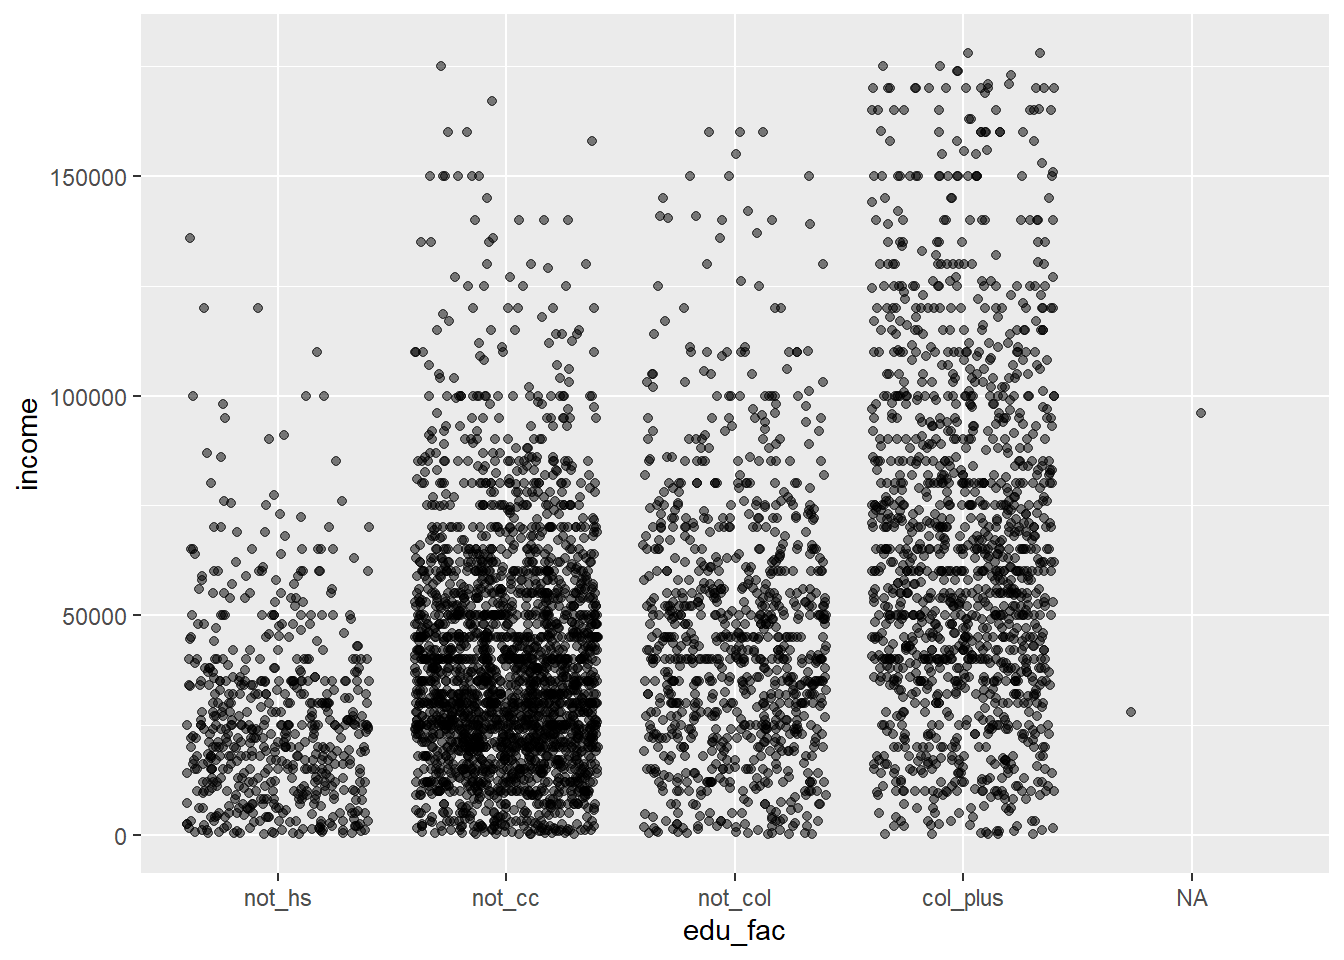
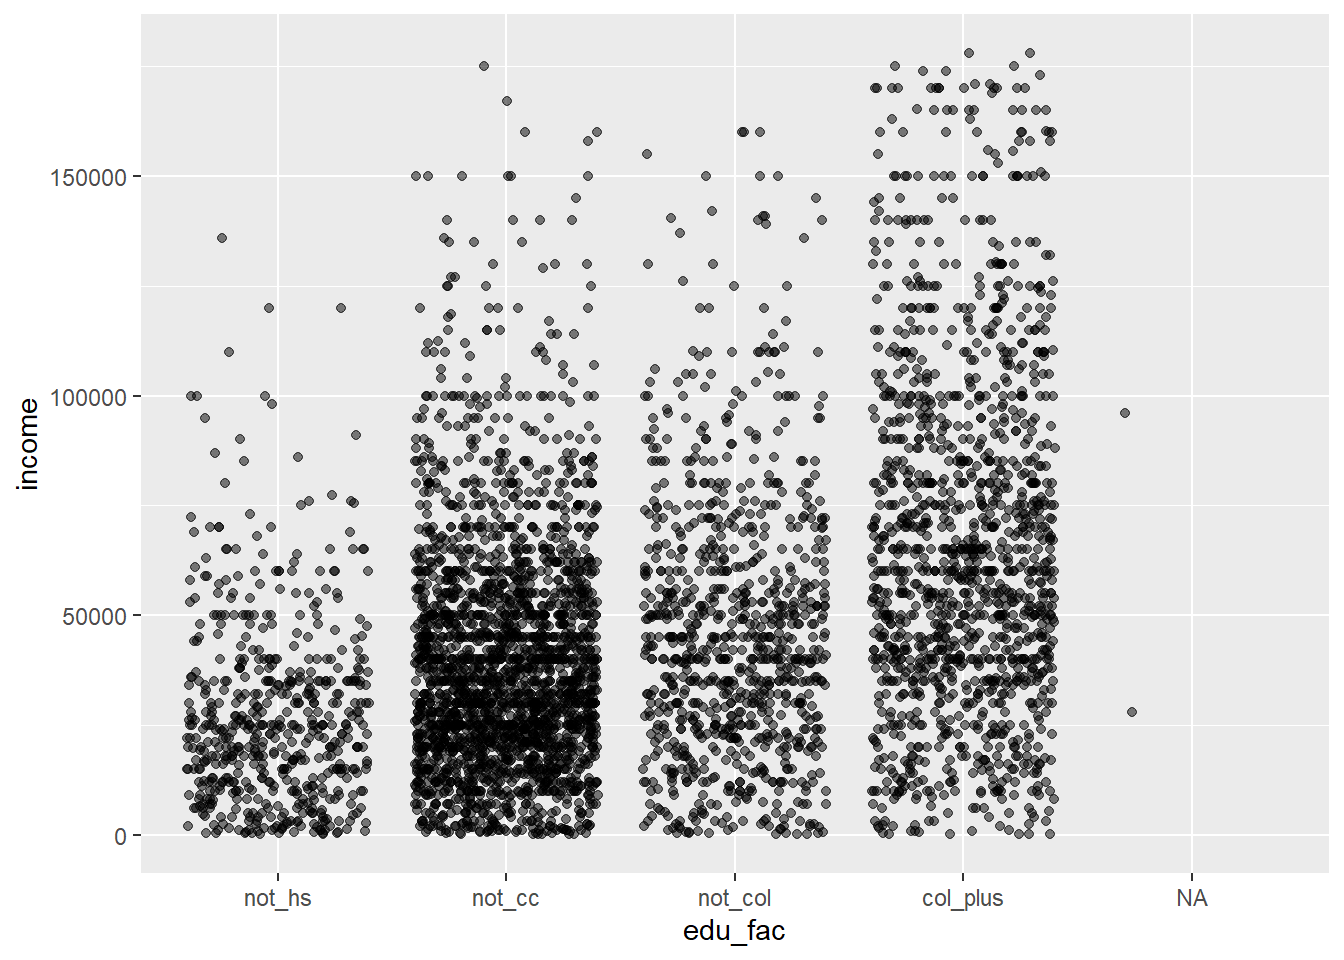
Tolkning

diff --git a/assignment_2.html b/assignment_2.html
@@ -166,9 +166,6 @@ div.csl-indent {
 <div class="sourceCode cell-code" id="cb2"><pre class="sourceCode r code-with-copy"><code class="sourceCode r"><span id="cb2-1"><a href="#cb2-1" aria-hidden="true" tabindex="-1"></a>na <span class="ot">&lt;-</span> <span class="fu">is.na</span>(hoyde)</span></code><button title="Copy to Clipboard" class="code-copy-button"><i class="bi"></i></button></pre></div>
 </div>
 <div class="cell">
-<div class="cell-output cell-output-stderr">
-<pre><code>`geom_smooth()` using formula = 'y ~ x'</code></pre>
-</div>
 <div class="cell-output-display">
 <p><img src="assignment_2_files/figure-html/unnamed-chunk-10-1.png" class="img-fluid" width="672"></p>
 </div>
@@ -763,29 +760,32 @@ div.csl-indent {
 </div>
 </div>
 <div class="cell">
-<div class="sourceCode cell-code" id="cb4"><pre class="sourceCode r code-with-copy"><code class="sourceCode r"><span id="cb4-1"><a href="#cb4-1" aria-hidden="true" tabindex="-1"></a>hoyde <span class="ot">&lt;-</span> hoyde <span class="sc">|&gt;</span> </span>
-<span id="cb4-2"><a href="#cb4-2" aria-hidden="true" tabindex="-1"></a>  <span class="fu">mutate</span>(</span>
-<span id="cb4-3"><a href="#cb4-3" aria-hidden="true" tabindex="-1"></a>    <span class="at">income_class =</span> <span class="fu">case_when</span>(</span>
-<span id="cb4-4"><a href="#cb4-4" aria-hidden="true" tabindex="-1"></a>    income <span class="sc">==</span> <span class="dv">0</span> <span class="sc">~</span> <span class="st">"zeroinc"</span>,</span>
-<span id="cb4-5"><a href="#cb4-5" aria-hidden="true" tabindex="-1"></a>    income <span class="sc">&gt;</span> <span class="dv">0</span> <span class="sc">&amp;</span> income <span class="sc">&lt;</span> <span class="dv">343830</span> <span class="sc">~</span> <span class="st">"norminc"</span>,</span>
-<span id="cb4-6"><a href="#cb4-6" aria-hidden="true" tabindex="-1"></a>    income <span class="sc">&gt;=</span> <span class="dv">343830</span> <span class="sc">~</span> <span class="st">"highinc"</span></span>
-<span id="cb4-7"><a href="#cb4-7" aria-hidden="true" tabindex="-1"></a>    ))</span></code><button title="Copy to Clipboard" class="code-copy-button"><i class="bi"></i></button></pre></div>
+<div class="sourceCode cell-code" id="cb3"><pre class="sourceCode r code-with-copy"><code class="sourceCode r"><span id="cb3-1"><a href="#cb3-1" aria-hidden="true" tabindex="-1"></a>hoyde <span class="ot">&lt;-</span> hoyde <span class="sc">|&gt;</span> </span>
+<span id="cb3-2"><a href="#cb3-2" aria-hidden="true" tabindex="-1"></a>  <span class="fu">mutate</span>(</span>
+<span id="cb3-3"><a href="#cb3-3" aria-hidden="true" tabindex="-1"></a>    <span class="at">income_class =</span> <span class="fu">case_when</span>(</span>
+<span id="cb3-4"><a href="#cb3-4" aria-hidden="true" tabindex="-1"></a>    income <span class="sc">==</span> <span class="dv">0</span> <span class="sc">~</span> <span class="st">"zeroinc"</span>,</span>
+<span id="cb3-5"><a href="#cb3-5" aria-hidden="true" tabindex="-1"></a>    income <span class="sc">&gt;</span> <span class="dv">0</span> <span class="sc">&amp;</span> income <span class="sc">&lt;</span> <span class="dv">343830</span> <span class="sc">~</span> <span class="st">"norminc"</span>,</span>
+<span id="cb3-6"><a href="#cb3-6" aria-hidden="true" tabindex="-1"></a>    income <span class="sc">&gt;=</span> <span class="dv">343830</span> <span class="sc">~</span> <span class="st">"highinc"</span></span>
+<span id="cb3-7"><a href="#cb3-7" aria-hidden="true" tabindex="-1"></a>    ))</span></code><button title="Copy to Clipboard" class="code-copy-button"><i class="bi"></i></button></pre></div>
 </div>
 <div class="cell">
-<div class="sourceCode cell-code" id="cb5"><pre class="sourceCode r code-with-copy"><code class="sourceCode r"><span id="cb5-1"><a href="#cb5-1" aria-hidden="true" tabindex="-1"></a>hoyde <span class="sc">|&gt;</span> </span>
-<span id="cb5-2"><a href="#cb5-2" aria-hidden="true" tabindex="-1"></a>  <span class="fu">ggplot</span>(<span class="at">mapping =</span> <span class="fu">aes</span>(</span>
-<span id="cb5-3"><a href="#cb5-3" aria-hidden="true" tabindex="-1"></a>    <span class="at">x =</span> edu_fac,</span>
-<span id="cb5-4"><a href="#cb5-4" aria-hidden="true" tabindex="-1"></a>    <span class="at">y =</span> income,</span>
-<span id="cb5-5"><a href="#cb5-5" aria-hidden="true" tabindex="-1"></a>    <span class="at">colour =</span> income_class</span>
-<span id="cb5-6"><a href="#cb5-6" aria-hidden="true" tabindex="-1"></a>  )) <span class="sc">+</span></span>
-<span id="cb5-7"><a href="#cb5-7" aria-hidden="true" tabindex="-1"></a>  <span class="fu">geom_jitter</span>(<span class="at">alpha =</span> <span class="fl">0.2</span>)</span></code><button title="Copy to Clipboard" class="code-copy-button"><i class="bi"></i></button></pre></div>
+<div class="sourceCode cell-code" id="cb4"><pre class="sourceCode r code-with-copy"><code class="sourceCode r"><span id="cb4-1"><a href="#cb4-1" aria-hidden="true" tabindex="-1"></a>hoyde <span class="sc">|&gt;</span> </span>
+<span id="cb4-2"><a href="#cb4-2" aria-hidden="true" tabindex="-1"></a>  <span class="fu">ggplot</span>(<span class="at">mapping =</span> <span class="fu">aes</span>(</span>
+<span id="cb4-3"><a href="#cb4-3" aria-hidden="true" tabindex="-1"></a>    <span class="at">x =</span> edu_fac,</span>
+<span id="cb4-4"><a href="#cb4-4" aria-hidden="true" tabindex="-1"></a>    <span class="at">y =</span> income,</span>
+<span id="cb4-5"><a href="#cb4-5" aria-hidden="true" tabindex="-1"></a>    <span class="at">colour =</span> income_class</span>
+<span id="cb4-6"><a href="#cb4-6" aria-hidden="true" tabindex="-1"></a>  )) <span class="sc">+</span></span>
+<span id="cb4-7"><a href="#cb4-7" aria-hidden="true" tabindex="-1"></a>  <span class="fu">geom_jitter</span>(<span class="at">alpha =</span> <span class="fl">0.2</span>)</span></code><button title="Copy to Clipboard" class="code-copy-button"><i class="bi"></i></button></pre></div>
 <div class="cell-output-display">
 <p><img src="assignment_2_files/figure-html/unnamed-chunk-20-1.png" class="img-fluid" width="672"></p>
 </div>
 </div>
+<p>I fordelingen “hoydeHighInc” ser man et markant skille i fordelingen i menn og kvinner. Menn utgjør 92% av fordelingen “hoydeHighInc”, mens kvinner utgjør 8% av fordelingen.</p>
+<p>I fordelingen “hoydeZeroInc” ser man at fordelingen mellom kvinner og menn er 43% menn og 57% Kvinner som utgjør fordelingen.</p>
+<p>Plottet under er ment som en ildustrasjon av hvordan “hoydeHightInc”(rød), “hoydeZeroInc”(blå) skiller seg fra “hoydeNormInc” med utgangspunkt i høyde &amp; utdanning. Dette plottet er ikke 100% representativt for fordelingene ettersom man ikke får plottet alle observarsjonene, men fungerer godt som en indikator for å vise skille i utdanning &amp; høyde. Man ser at dersom man er i fordelingen “hoydeZeroInc” skorer majoriteten av observasjonene lavest på utdanning &amp; høyde, mens man i “hoydeNormInc” skorer en større del av observasjonene høyere på utdanning &amp; høyde enn “hoydeZeroInc”. Når det kommer til “hoydeHighInc” skorer denne klarest høyst på utdanning &amp; høyde. Vi vil seinere i oppgaven se nærmere på dette i faktiske tall.</p>
 <div class="cell">
-<div class="sourceCode cell-code" id="cb6"><pre class="sourceCode r code-with-copy"><code class="sourceCode r"><span id="cb6-1"><a href="#cb6-1" aria-hidden="true" tabindex="-1"></a>hoyde <span class="sc">|&gt;</span> <span class="fu">ggplot</span>() <span class="sc">+</span></span>
-<span id="cb6-2"><a href="#cb6-2" aria-hidden="true" tabindex="-1"></a>  <span class="fu">geom_point</span>(<span class="at">data =</span> hoyde, <span class="at">mapping =</span> <span class="fu">aes</span>(<span class="at">x =</span> education, <span class="at">y =</span> height, <span class="at">colour =</span> <span class="fu">factor</span>(income_class), <span class="at">shape =</span> sex))</span></code><button title="Copy to Clipboard" class="code-copy-button"><i class="bi"></i></button></pre></div>
+<div class="sourceCode cell-code" id="cb5"><pre class="sourceCode r code-with-copy"><code class="sourceCode r"><span id="cb5-1"><a href="#cb5-1" aria-hidden="true" tabindex="-1"></a>hoyde <span class="sc">|&gt;</span> <span class="fu">ggplot</span>() <span class="sc">+</span></span>
+<span id="cb5-2"><a href="#cb5-2" aria-hidden="true" tabindex="-1"></a>  <span class="fu">geom_point</span>(<span class="at">data =</span> hoyde, <span class="at">mapping =</span> <span class="fu">aes</span>(<span class="at">x =</span> education, <span class="at">y =</span> height, <span class="at">colour =</span> <span class="fu">factor</span>(income_class), <span class="at">shape =</span> sex))</span></code><button title="Copy to Clipboard" class="code-copy-button"><i class="bi"></i></button></pre></div>
 <div class="cell-output cell-output-stderr">
 <pre><code>Warning: Removed 10 rows containing missing values (`geom_point()`).</code></pre>
 </div>
@@ -794,8 +794,8 @@ div.csl-indent {
 </div>
 </div>
 <div class="cell">
-<div class="sourceCode cell-code" id="cb8"><pre class="sourceCode r code-with-copy"><code class="sourceCode r"><span id="cb8-1"><a href="#cb8-1" aria-hidden="true" tabindex="-1"></a>hoydeNormInc <span class="sc">|&gt;</span> </span>
-<span id="cb8-2"><a href="#cb8-2" aria-hidden="true" tabindex="-1"></a>  <span class="fu">st</span>(<span class="fu">c</span>(<span class="st">"height"</span>, <span class="st">"education"</span>, <span class="st">"sex"</span>))</span></code><button title="Copy to Clipboard" class="code-copy-button"><i class="bi"></i></button></pre></div>
+<div class="sourceCode cell-code" id="cb7"><pre class="sourceCode r code-with-copy"><code class="sourceCode r"><span id="cb7-1"><a href="#cb7-1" aria-hidden="true" tabindex="-1"></a>hoydeNormInc <span class="sc">|&gt;</span> </span>
+<span id="cb7-2"><a href="#cb7-2" aria-hidden="true" tabindex="-1"></a>  <span class="fu">st</span>(<span class="fu">c</span>(<span class="st">"height"</span>, <span class="st">"education"</span>, <span class="st">"sex"</span>))</span></code><button title="Copy to Clipboard" class="code-copy-button"><i class="bi"></i></button></pre></div>
 <div class="cell-output-display">
 <table class="table table-sm table-striped small" data-quarto-postprocess="true">
 <caption>Summary Statistics</caption>
@@ -868,9 +868,10 @@ div.csl-indent {
 
 </div>
 </div>
+<p>I fordelingen “hoydeNormInc” ser man at man totalt har 5123 observasjoner med 2 NA verdier i forhold til utdanning. Denne fordelingen har klart mest observasjoner som er naturlig for et slikt datasett. Vi kan lese ut av tabellen over at i denne fordelingen er gjennomsnittshøyden 67inc eller 170.18cm, mens gjennomsnittlig utdanningsnivå er 13år.</p>
 <div class="cell">
-<div class="sourceCode cell-code" id="cb9"><pre class="sourceCode r code-with-copy"><code class="sourceCode r"><span id="cb9-1"><a href="#cb9-1" aria-hidden="true" tabindex="-1"></a>hoydeHighInc <span class="sc">|&gt;</span> </span>
-<span id="cb9-2"><a href="#cb9-2" aria-hidden="true" tabindex="-1"></a>  <span class="fu">st</span>(<span class="fu">c</span>(<span class="st">"height"</span>, <span class="st">"education"</span>, <span class="st">"sex"</span>))</span></code><button title="Copy to Clipboard" class="code-copy-button"><i class="bi"></i></button></pre></div>
+<div class="sourceCode cell-code" id="cb8"><pre class="sourceCode r code-with-copy"><code class="sourceCode r"><span id="cb8-1"><a href="#cb8-1" aria-hidden="true" tabindex="-1"></a>hoydeHighInc <span class="sc">|&gt;</span> </span>
+<span id="cb8-2"><a href="#cb8-2" aria-hidden="true" tabindex="-1"></a>  <span class="fu">st</span>(<span class="fu">c</span>(<span class="st">"height"</span>, <span class="st">"education"</span>, <span class="st">"sex"</span>))</span></code><button title="Copy to Clipboard" class="code-copy-button"><i class="bi"></i></button></pre></div>
 <div class="cell-output-display">
 <table class="table table-sm table-striped small" data-quarto-postprocess="true">
 <caption>Summary Statistics</caption>
@@ -943,9 +944,10 @@ div.csl-indent {
 
 </div>
 </div>
+<p>I fordelingen “hoydeNormInc” ser man at man totalt har 143 observasjoner. Denne fordelingen har klart minst observasjoner av naturlige årsaker. Vi kan lese ut av tabellen over at i denne fordelingen er gjennomsnittshøyden 71inc eller 180.34cm med et standaravvik på 3.1 inc eller 7.874cm, mens gjennomsnittlig utdanningsnivå er 17år med et standaravvik på 2.4år.</p>
 <div class="cell">
-<div class="sourceCode cell-code" id="cb10"><pre class="sourceCode r code-with-copy"><code class="sourceCode r"><span id="cb10-1"><a href="#cb10-1" aria-hidden="true" tabindex="-1"></a>hoydeZeroInc <span class="sc">|&gt;</span> </span>
-<span id="cb10-2"><a href="#cb10-2" aria-hidden="true" tabindex="-1"></a>  <span class="fu">st</span>(<span class="fu">c</span>(<span class="st">"height"</span>, <span class="st">"education"</span>, <span class="st">"sex"</span>))</span></code><button title="Copy to Clipboard" class="code-copy-button"><i class="bi"></i></button></pre></div>
+<div class="sourceCode cell-code" id="cb9"><pre class="sourceCode r code-with-copy"><code class="sourceCode r"><span id="cb9-1"><a href="#cb9-1" aria-hidden="true" tabindex="-1"></a>hoydeZeroInc <span class="sc">|&gt;</span> </span>
+<span id="cb9-2"><a href="#cb9-2" aria-hidden="true" tabindex="-1"></a>  <span class="fu">st</span>(<span class="fu">c</span>(<span class="st">"height"</span>, <span class="st">"education"</span>, <span class="st">"sex"</span>))</span></code><button title="Copy to Clipboard" class="code-copy-button"><i class="bi"></i></button></pre></div>
 <div class="cell-output-display">
 <table class="table table-sm table-striped small" data-quarto-postprocess="true">
 <caption>Summary Statistics</caption>
@@ -1018,6 +1020,9 @@ div.csl-indent {
 
 </div>
 </div>
+<p>I fordelingen “hoydeZeroInc” ser man at man totalt har 1740 observasjoner, med 8 NA verdier tilknyttet utdanning. Vi kan lese ut av tabellen over at i denne fordelingen er gjennomsnittshøyden 66inc eller 167.64cm med et standaravvik på 4.1 inc eller 10.414cm, mens gjennomsnittlig utdanningsnivå er 12år med et standaravvik på 2.4 år.</p>
+<p>Ser man da tilbake på plottet som ble presantert lengre oppe ser man at med faktiske tall vil plottet være representativt. “hoydeHightInc” skiller seg i den forstand fra “hoydeNormInc” i forhold til utdanning &amp; høyde at man er høyere utdannet og høyere. Man er i “hoydeHighInc” 10,16 cm høyere og 4 år høyere utdannet enn “hoydeNormInc” gjennomsnittslig. Når det kommer til “hoydeZeroInc” skiller dette seg fra “hoydeNormInc” i den forstand at man gjennomsnittslig er 2,54cm lavere og 1 år lavere utdannet.</p>
+<p>Vi kan med utgangspunkt i disse observarsjonene sett vekk i fra andre faktorer se at utdanning &amp; høyde har en innvirkning på hvilke inntekt mann har. Høyere høyde &amp; utdanning vil gi en effekt i økt inntekt.</p>
 
 </section>
 </section>
